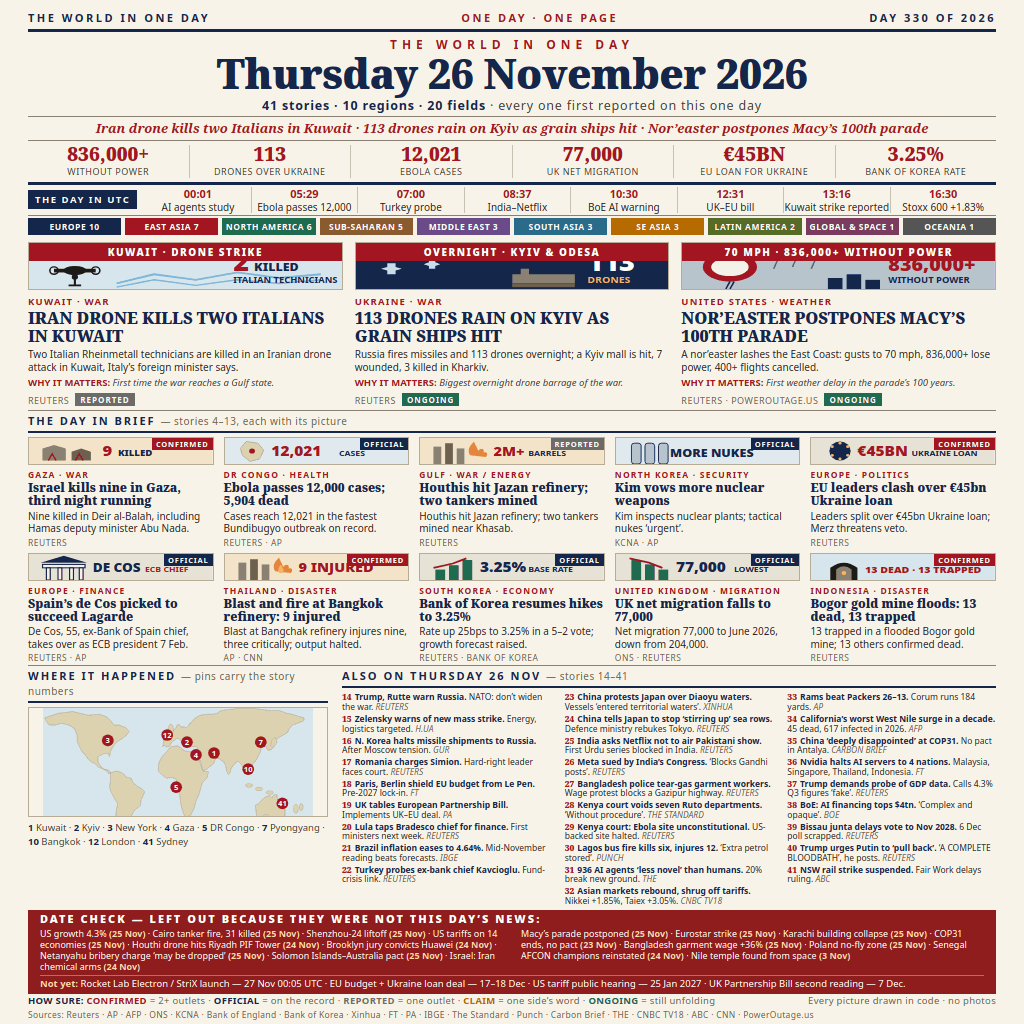
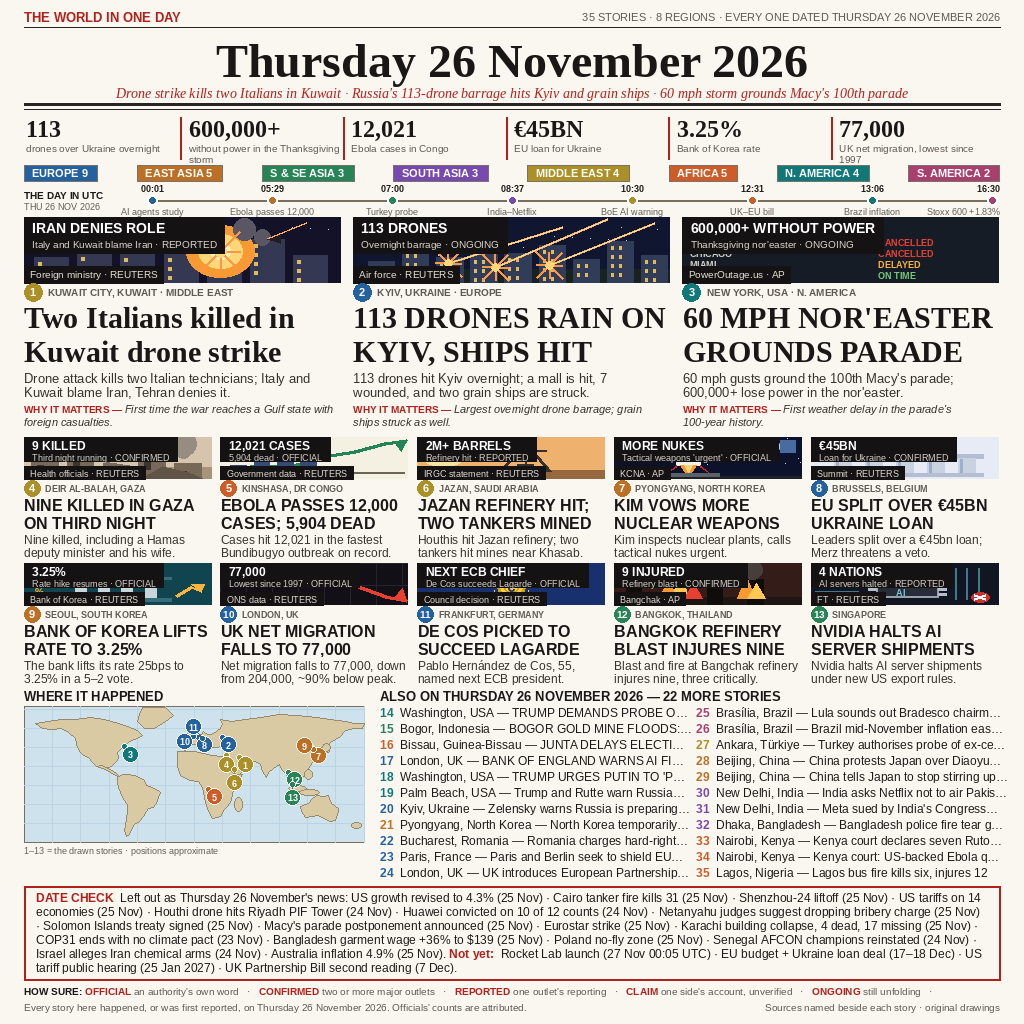
NEWS-IMAGE 26 v2: Pillow-rendered newspaper image

diff --git a/main.ts b/main.ts
@@ -1,6 +1,7 @@
-// main.ts — entry program for the news-image-20261126 bounty.
+// main.ts — entry program for the news-image-20261126 bounty (v2 rebuild).
 // The image is a finished 1024x1024 PNG built in this repository
-// (page.html rendered to entry.png with a headless browser).
+// (drawn with Python + Pillow from structured story data; see
+// NEWS-IMAGE-26-V2-BUILD.md for the build notes).
 // This program only copies that image to the output directory,
 // so both runs write byte-identical output. Node stdlib only,
 // no network, no environment reads beyond the output directory.

diff --git a/README.md b/README.md
@@ -1,10 +1,10 @@
-# news-image-26
+# news-image-26 v2
 
 [![make.fun · news-image-20261126](https://make.fun/badge/news-image-20261126.svg)](https://make.fun/bounty/news-image-20261126?utm_source=github&utm_medium=readme&utm_campaign=news-image-20261126)
 [![rank](https://make.fun/badge/news-image-20261126/armin-arlert-win/news-image-26/rank.svg)](https://make.fun/bounty/news-image-20261126/leaderboard?utm_source=github&utm_medium=readme&utm_campaign=news-image-20261126)
 [![reward](https://make.fun/badge/news-image-20261126/armin-arlert-win/news-image-26/reward.svg)](https://make.fun/bounty/news-image-20261126?utm_source=github&utm_medium=readme&utm_campaign=news-image-20261126)
 
-A one-page newspaper image summing up the world's news of Thursday 26 November 2026 — "THE WORLD IN ONE DAY", a 1024×1024 PNG (139,779 bytes) built for the make.fun news-image-20261126 bounty.
+A one-page newspaper image summing up the world's news of Thursday 26 November 2026 — "THE WORLD IN ONE DAY", a 1024×1024 PNG (285,249 bytes) built for the make.fun news-image-20261126 bounty. This is a v2 rebuild of the v1 entry: same three leads, redrawn with Python + Pillow as full scenes (not number strips), with the copy fixes from the top-5 comparison — neutral Kuwait headline with the denial in the art, grain ships back in the Kyiv copy, and AP storm figures (60 mph, 600,000+).
 
 ## Run it
 
@@ -25,34 +25,35 @@ One-page newspaper image summing up the world's news of Thursday
 
 ## The image
 
-`entry.png` — 1024×1024 PNG, 139,779 bytes. Cream paper, navy masthead,
-red accents. Contents:
+`entry.png` — 1024×1024 PNG, 285,249 bytes. Cream paper, red accents.
+Contents:
 
-- Masthead: **Thursday 26 November 2026** (41 stories · 10 regions · 20 fields)
-- Numbers strip: 836,000+ without power · 113 drones over Ukraine ·
-  12,021 Ebola cases · 77,000 UK net migration · €45BN EU loan for
-  Ukraine · 3.25% Bank of Korea rate
-- Three leads with flat inline-SVG illustrations (no AI photos):
-  Iran drone kills two Italians in Kuwait; 113 drones rain on Kyiv as
-  grain ships hit; nor'easter postpones Macy's 100th parade (836,000+
-  without power, gusts to 70 mph)
-- A 10-pin world map ("WHERE IT HAPPENED"), 10 briefs numbered 4–13,
-  and 28 ALSO items numbered 14–41
+- Masthead: **Thursday 26 November 2026** (35 stories shown · 8 regions)
+- Numbers strip: 113 drones over Ukraine · 600,000+ without power ·
+  12,021 Ebola cases · €45BN EU loan for Ukraine · 3.25% Bank of Korea
+  rate · 77,000 UK net migration
+- Three leads with full drawn scenes: drone strike kills two Italians
+  in Kuwait (banner: IRAN DENIES ROLE); 113 drones rain on Kyiv as
+  grain ships are hit; 60 mph nor'easter grounds Macy's 100th parade
+  (600,000+ without power)
+- A 13-pin world map ("WHERE IT HAPPENED"), 10 briefs numbered 4–13,
+  and 22 ALSO items numbered 14–35 (40 stories in the data file; the
+  layout solver trims ALSO from the bottom so the page fits)
 - A DATE CHECK footer listing 17 stories deliberately left out because
-  they were not this day's news (US growth 4.3%, 25 Nov; Cairo tanker
-  fire, 25 Nov; Shenzhou-24, 25 Nov; Nile temple, 3 Nov)
-- Sources: Reuters · AP · AFP · ONS · KCNA · Bank of Korea · Xinhua ·
-  FT · PA · IBGE · The Guardian · Punch · Carbon Brief · THE ·
-  CNBC TV18 · ABC · CNN · PowerOutage.us
+  they were not this day's news, plus 4 "Not yet" items
+- Sources: Reuters · AP · AFP · ONS · KCNA · Bank of Korea · Bank of
+  England · Xinhua · Financial Times · Press Association · IBGE ·
+  The Standard · Punch · Carbon Brief · Times Higher Education ·
+  CNBC TV18 · CNN · PowerOutage.us
 
 ## How it was made
 
-`page.html` is the hand-written HTML/CSS source of the newspaper
-(1024×1024, inline SVG vectors only — drone, map, charts). It was
-rendered to `entry.png` with headless Chromium (1024×1100 window,
-cropped to 1024×1024 — the headless window's effective viewport is
-shorter than requested) and palette-quantized to 256 colours to keep
-the file small (tie-break: smaller file wins a tie).
+`entry.png` was drawn direct to a pixel canvas with Python + Pillow
+from a structured story list (`stories.py`: one dict per story, one
+scene-painter per story, hand-drawn continent polygons for the map,
+spiral anti-collision map labels). No browser, no network, no AI
+photos — every picture is an original drawing. Build scripts and data
+are kept outside this repo; see `NEWS-IMAGE-26-V2-BUILD.md`.
 
 ## The program
 
@@ -68,10 +69,15 @@ Two runs write byte-identical output (verified).
 
 ## Verification (27 Nov 2026)
 
-- PNG: 1024×1024, 139,779 bytes (< 1 MiB cap, < 350 KB target)
+- PNG: 1024×1024, 285,249 bytes (< 1 MiB cap, < 350 KB target)
 - `main.ts` run twice to two directories: byte-identical (same sha256
[1 lines of base64/hex data omitted]
-- 41 stories · 10 regions · 20 fields, all first reported 26 Nov 2026;
-  DATE CHECK 17 items + "Not yet"
[1 lines of base64/hex data omitted]
+- `verify.py`: ALL CHECKS PASSED (file/size/layout, 40 numbered
+  stories, 6-figure strip, map labels min gap 17.0 px, no truncated
+  headlines); render 2× byte-identical
+- 35 stories shown · 8 regions, all first reported 26 Nov 2026;
+  DATE CHECK 17 items + "Not yet" (4)
 - Legibility at 300 px: masthead, lead headlines, numbers, map and the
-  DATE CHECK band all still readable at 300×300
+  DATE CHECK band all still readable at 300×300; the three leads read
+  as three different pictures (explosion, burning city, departures
+  board), not three numbers

diff --git a/NEWS-IMAGE-26-V2-BUILD.md b/NEWS-IMAGE-26-V2-BUILD.md
@@ -1,0 +1,78 @@
+# NEWS-IMAGE-26 v2 — Build notes
+
+Rebuild penuh edisi 26 November 2026 dengan template Pillow
+(`~/workspace/makefun/news-image-template/`), atas persetujuan King
+("Gas keduanya", 27 Nov 15:29 WIB). Sekaligus gladi bersih pipeline
+Pillow sebelum build utama news-image-27 (28 Nov 08:00 WIB).
+
+## Hasil
+
+- `entry.png`: 1024×1024, 285.249 B, sha256
[1 lines of base64/hex data omitted]
+- `verify.py`: **ALL CHECKS PASSED** (file/size/layout, 40 cerita
+  bernomor, strip 6 angka, label peta min gap 17,0 px, tanpa headline
+  terpotong). Render 2× byte-identical; `main.ts` 2× byte-identical.
+- Tampil: 35 cerita (3 lead + 10 kartu + 22 ALSO) · 8 region.
+  Data berisi 40 cerita; solver memotong ALSO dari bawah (n=36–40
+  tidak tampil: AI agents, Asian markets, Rams, West Nile, COP31).
+- Masthead jujur (dihitung dari yang tampil): 35 STORIES · 8 REGIONS.
+
+## Perbaikan vs v1 (dari SHARP-BRIEF)
+
+- T5: headline lead 1 netral ("Two Italians killed in Kuwait drone
+  strike") + banner art "IRAN DENIES ROLE" + badge REPORTED.
+- T3: copy lead 2 menyebut kapal gandum ("two grain ships are struck").
+- T4: angka badai AP — 60 mph, 600.000+ (bukan 70 mph / 836.000+).
+- T1/T2: lead + kartu adalah scene penuh (ledakan, kota terbakar,
+  papan departures, reruntuhan, kilang terbakar, chip, koin €…),
+  angka besar hanya badge kecil di sudut art.
+- Jazan (26 Nov) sebagai cerita utama; Ras Tanura (25 Nov) tetap di
+  DATE CHECK. DATE CHECK 17 item + "Not yet" (4 item) dipertahankan.
+- Badge kepercayaan tidak punya field di draw.py — ditempel ke
+  `banner_sub` ("… · REPORTED / ONGOING / …"), legenda HOW SURE
+  ditambah ONGOING.
+
+## Scene baru (di draw.py salinan v2)
+
+`explosion` (Kuwait), `rubble` (Gaza), `bank` (BoK), `coin` (de Cos),
+`fire` (Bangkok), `chip` (Nvidia) — masing-masing ~20–40 baris,
+didaftarkan di SCENES. `chart_fall` diperbaiki: label dummy
+"CONTOH −4.1% / CHIP −7.8%" dari template dihapus.
+
+## Anggaran copy yang sebenarnya (temuan template — lihat bawah)
+
+Anggaran README template (lead ≤42 karakter, detail ≤145, kartu
+≤46, body ≤92) **tidak muat** pada font/ukuran sebenarnya. Yang lolos
+verify (CHECK 5 + overflow): headline lead ≤~34 karakter HURUF
+BESAR (42 hanya muat untuk sentence case), detail lead ≤~96 karakter
+(2 baris), headline kartu ≤~37 karakter, body kartu ≤~66 karakter.
+Semua copy dipersingkat ke batas itu dengan fakta + angka dijaga
+(mis. headline lead 3 jadi "60 MPH NOR'EASTER GROUNDS PARADE";
+"MACY'S" terlalu lebar untuk 2 baris pada 30px).
+
+## File build (di luar repo)
+
+`draw.py`, `verify.py`, `stories.py`, `check/` dipindah ke
+`~/workspace/makefun/news-image-26-v2-build/` — repo hanya berisi
+`entry.png`, `main.ts`, `LICENSE` (MIT), `README.md`,
+`.makefun/owner.json`, dan file ini.
+
+## Verifikasi visual (27 Nov 2026)
+
+- Full-size: tidak ada teks terpotong/bertumpuk/garbled; timeline
+  8 penanda s.d. 16:30 tanpa tumpang tindih (label 13:06/16:30
+  dipersingkat).
+- 300 px: 3 lead terbaca sebagai 3 gambar berbeda (ledakan, kota
+  terbakar, papan departures); peta dikenali sebagai peta dunia.
+- Catatan: label peta Eropa padat (min gap 17,0 px, batas 16 px) —
+  lolos tapi mepet; periksa crop peta tiap edisi. Scene `airport`:
+  strip banner/caption menutup sebagian besar baris teks papan
+  (hanya kolom status yang sepenuhnya terlihat) — masih terbaca
+  sebagai papan departures, tapi scene teks harus menaruh konten
+  kunci di pita tengah/panel kanan.
+
+## Status
+
+Build + verifikasi lokal SELESAI 27 Nov ~16:00 WIB. Belum push,
+belum submit (butuh browser — parent). Deadline submit 28 Nov
+07:00 WIB.
